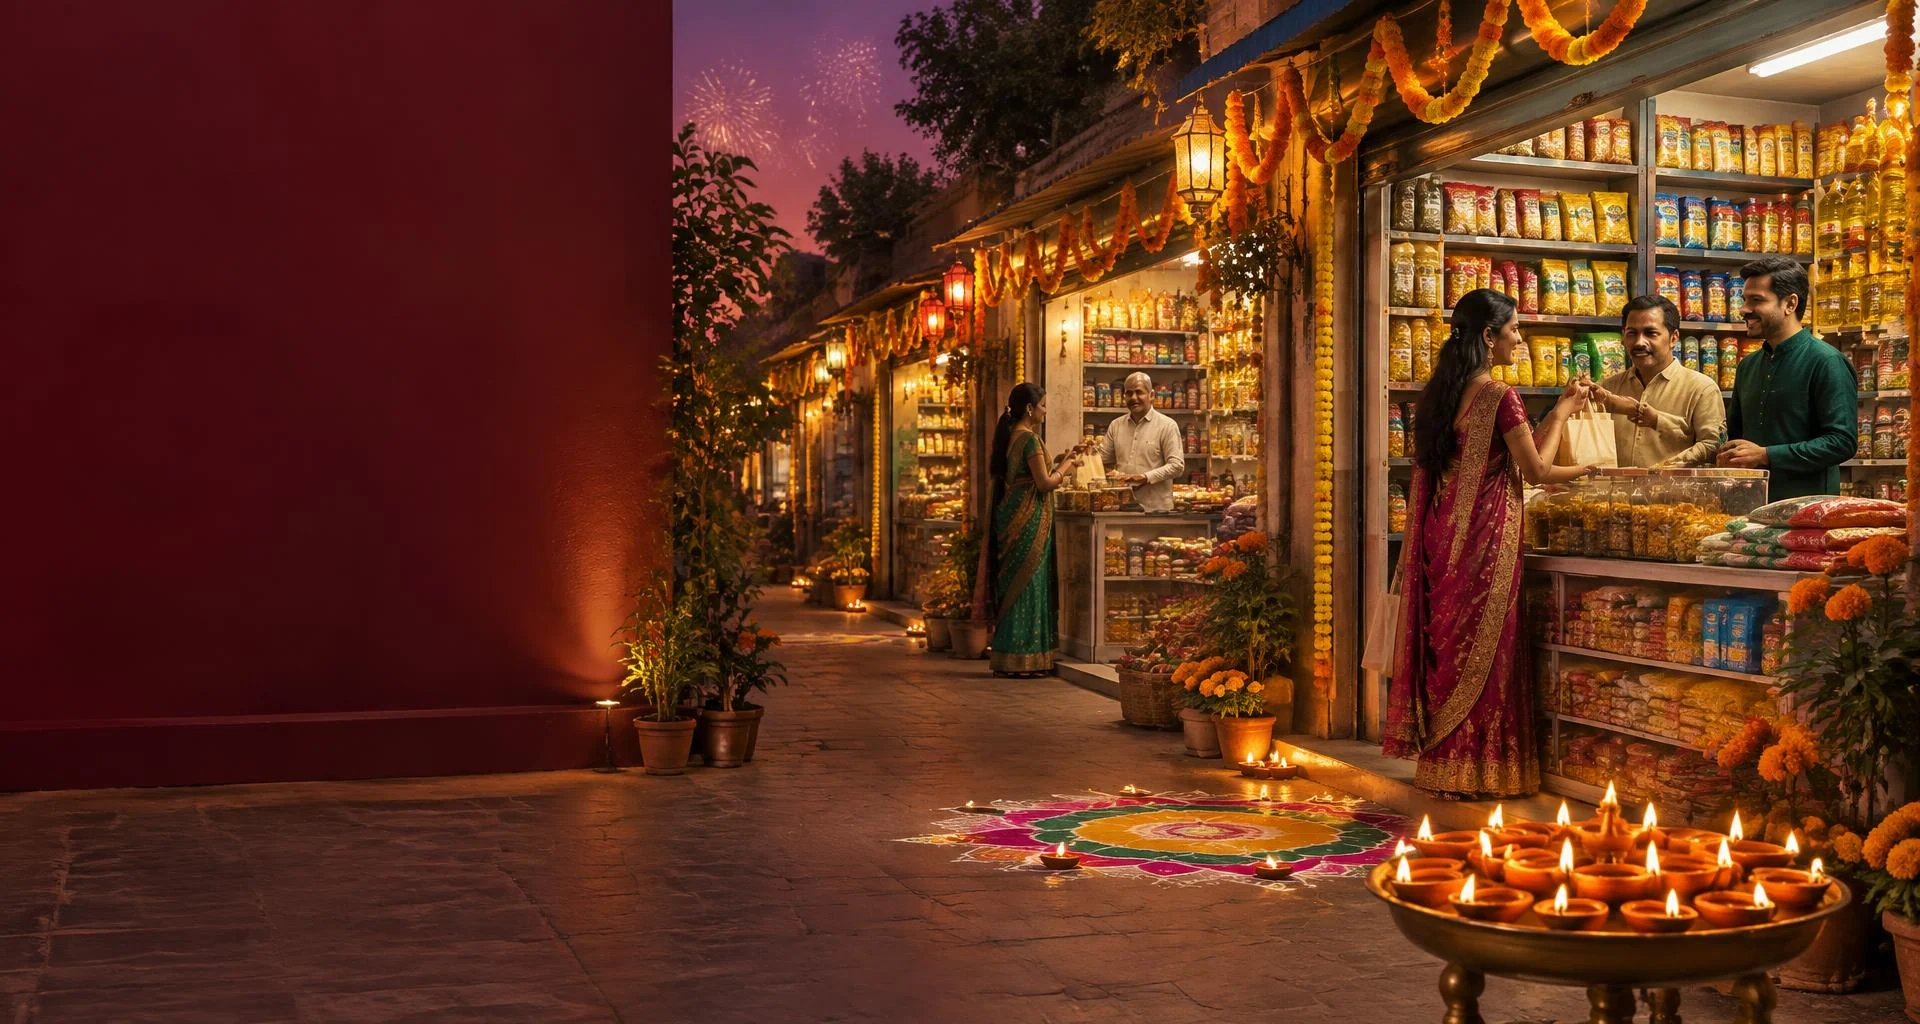
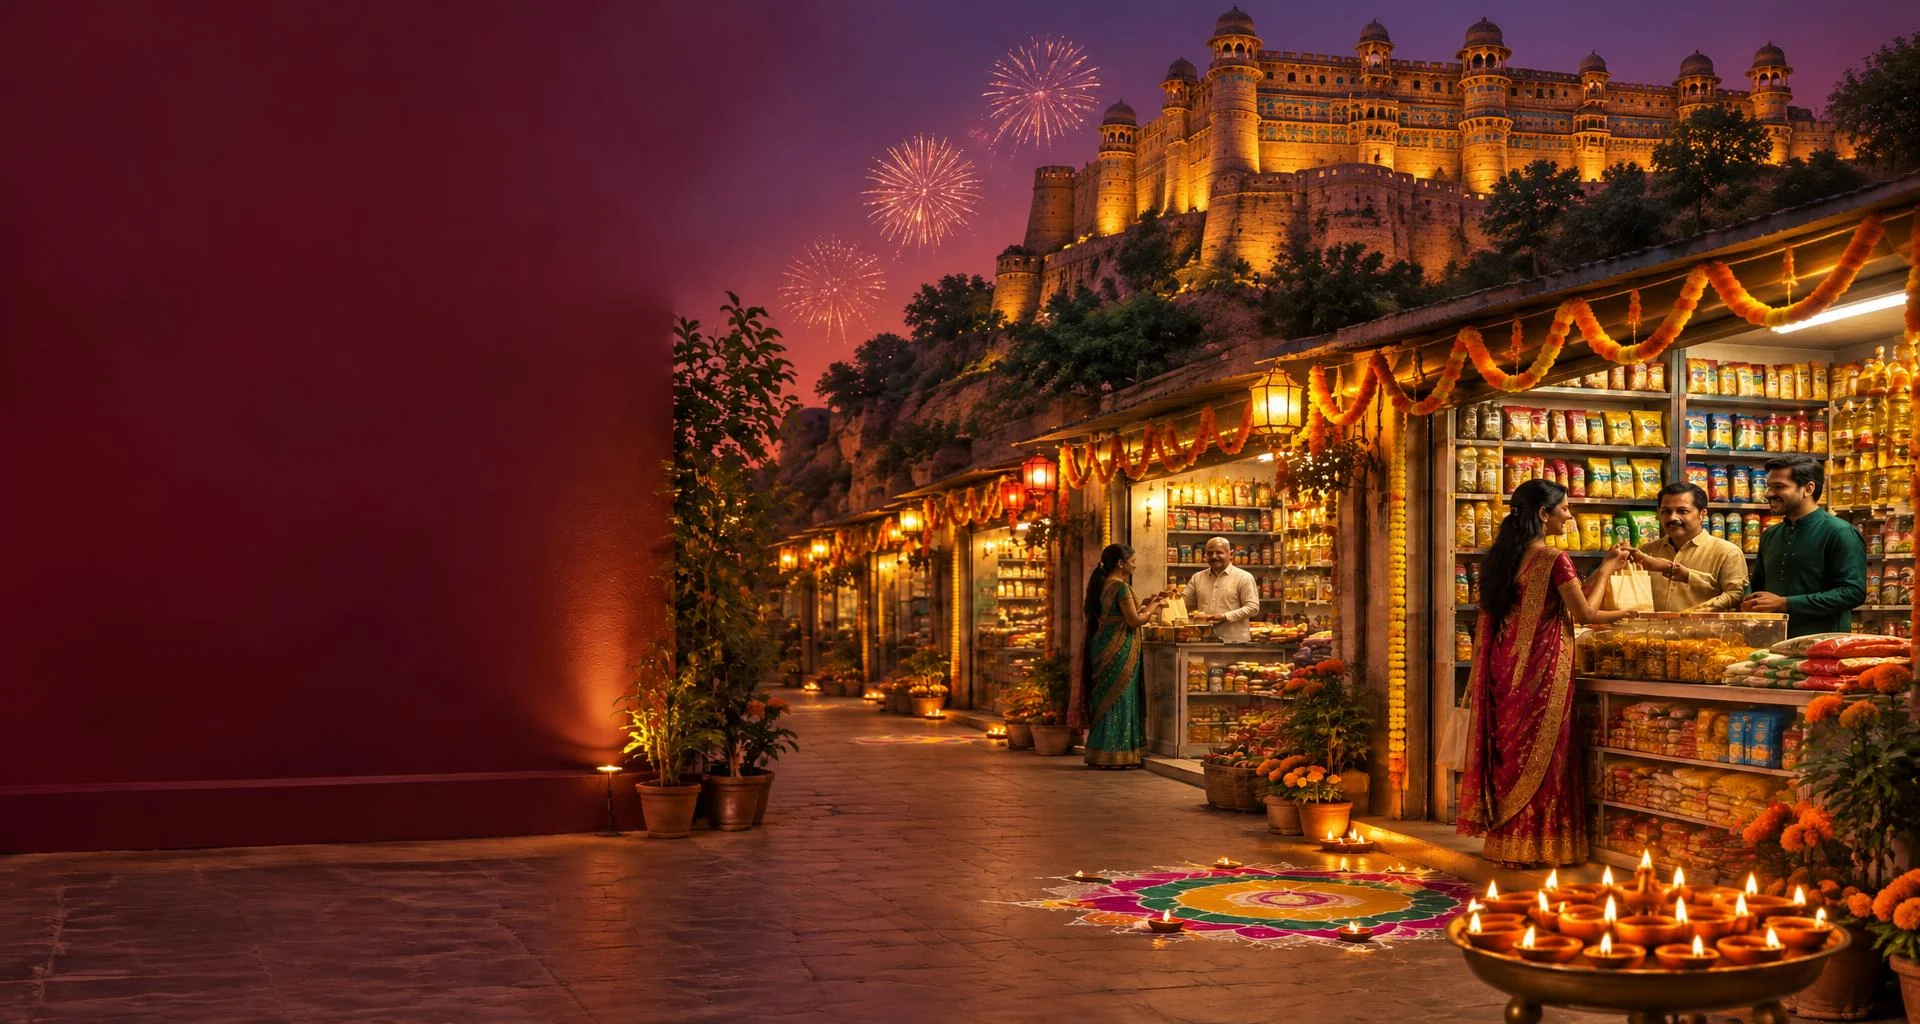
Changes

diff --git a/src/frontend/features/home/diwali.tsx b/src/frontend/features/home/diwali.tsx
@@ -17,7 +17,7 @@ export function DiwaliHome() {
   const count = network.filter((row) => (!selection.state || row.state === selection.state) && (!selection.area || row.area === selection.area) && (!selection.district || row.district === selection.district)).reduce((sum, row) => sum + row.stores, 0);
   return <div className="navratri-home diwali-home">
     <section className="festival-hero diwali-hero">
-      <img src={hero} alt="Diwali celebrations at FMCG retail stores with stocked shelves, shopkeepers, rangoli and glowing diyas" className="festival-backdrop" width={1920} height={1024} fetchPriority="high" decoding="async" />
+      <img src={hero} alt="Illuminated Gwalior Fort above festive FMCG retail stores with shopkeepers, rangoli and glowing Diwali diyas" className="festival-backdrop" width={1920} height={1024} fetchPriority="high" decoding="async" />
       <div className="page-shell diwali-hero-inner"><div className="diwali-hero-copy">
         <p className="diwali-eyebrow"><Sparkles aria-hidden="true" /> ॥ शुभ दीपावली ॥</p>
         <h1>Rishishwar Industry</h1>

diff --git a/public/website-images/README.md b/public/website-images/README.md
@@ -11,3 +11,5 @@ Latest optimization: all 155 images inspected, 112 reduced further, total 12,875
 2026-10-30 follow-up: all 155 files decode correctly and their static URLs return the exact repository bytes. Lossless recompression produced no smaller files, so existing optimized images were retained without another quality-reducing pass. Header, footer and chat logos load correctly in the preview. The published site's new header-wordmark and chat-logo static URLs still return 404; deployment of the updated site is required before those URLs are available there.
 
 2026-11-01: added `assets/diwali-hero.webp` and `assets/diwali-retail.webp` (approximately 388 KiB combined), served from this same static library in development and production.
+
+2026-11-02: refreshed both Diwali photos with FMCG retail imagery; the hero retains illuminated Gwalior Fort. Optimized WebP copies remain at the same static URLs.
